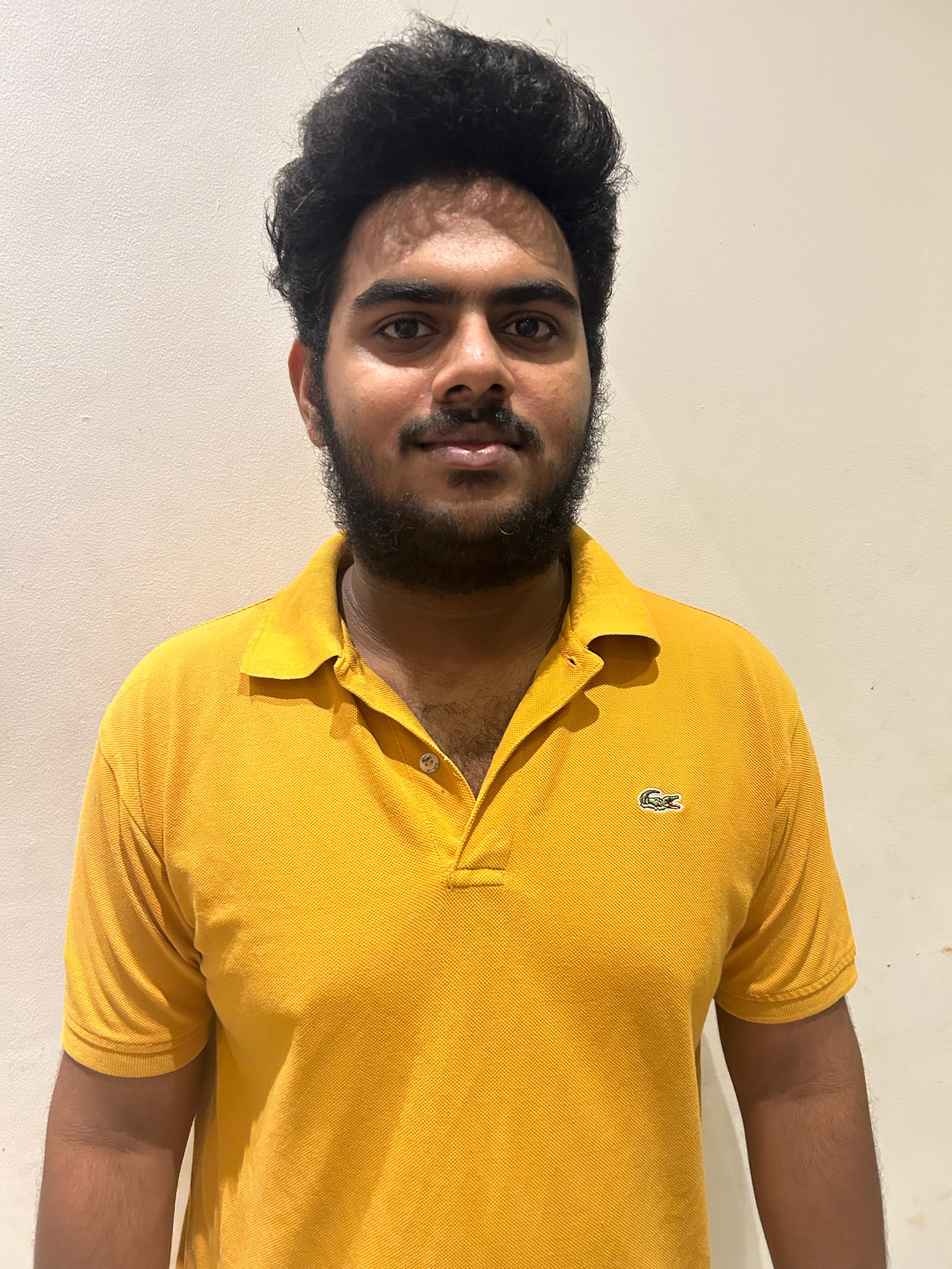
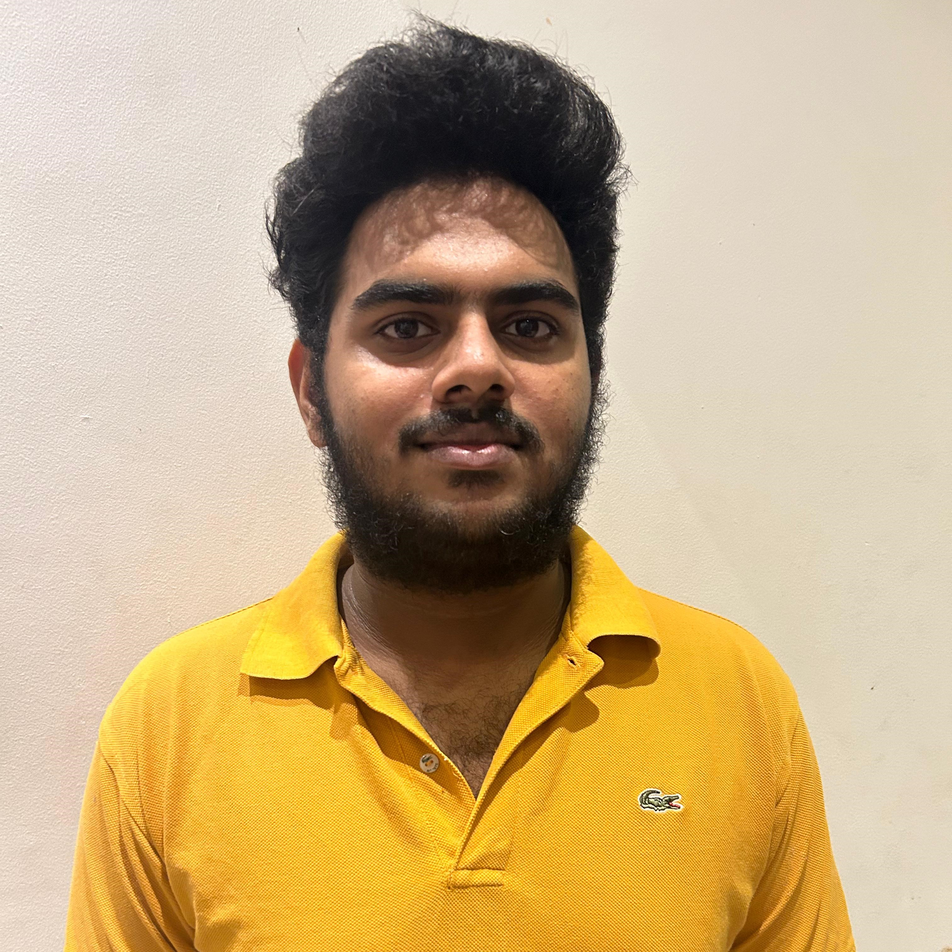
photos

diff --git a/team.html b/team.html
@@ -27,10 +27,10 @@
                 <div class="member"><img src="./imgs/member.png" alt="member image">
                     <p>Nadeesha Fernando<br>Role student 1<br>Splash screen<br>shop</p>
                 </div>
-                <div class="member"><img src="./imgs/member.png" alt="member image">
+                <div class="member"><img src="./imgs/profile pictures/kalindu.jpg" alt="member image">
                     <p>Kalindu Adithya<br>Role student 2<br>Home page<br>Feedback</p>
                 </div>
-                <div class="member"><img src="./imgs/member.png" alt="member image">
+                <div class="member"><img src="./imgs/profile pictures/chadithya.jpg" alt="member image">
                     <p>Chadithya Dinuwan<br>Role student 3<br>User profile<br>Team</p>
                 </div>
                 <div class="member"><img src="./imgs/profile pictures/dushen.jpg" alt="member image">
